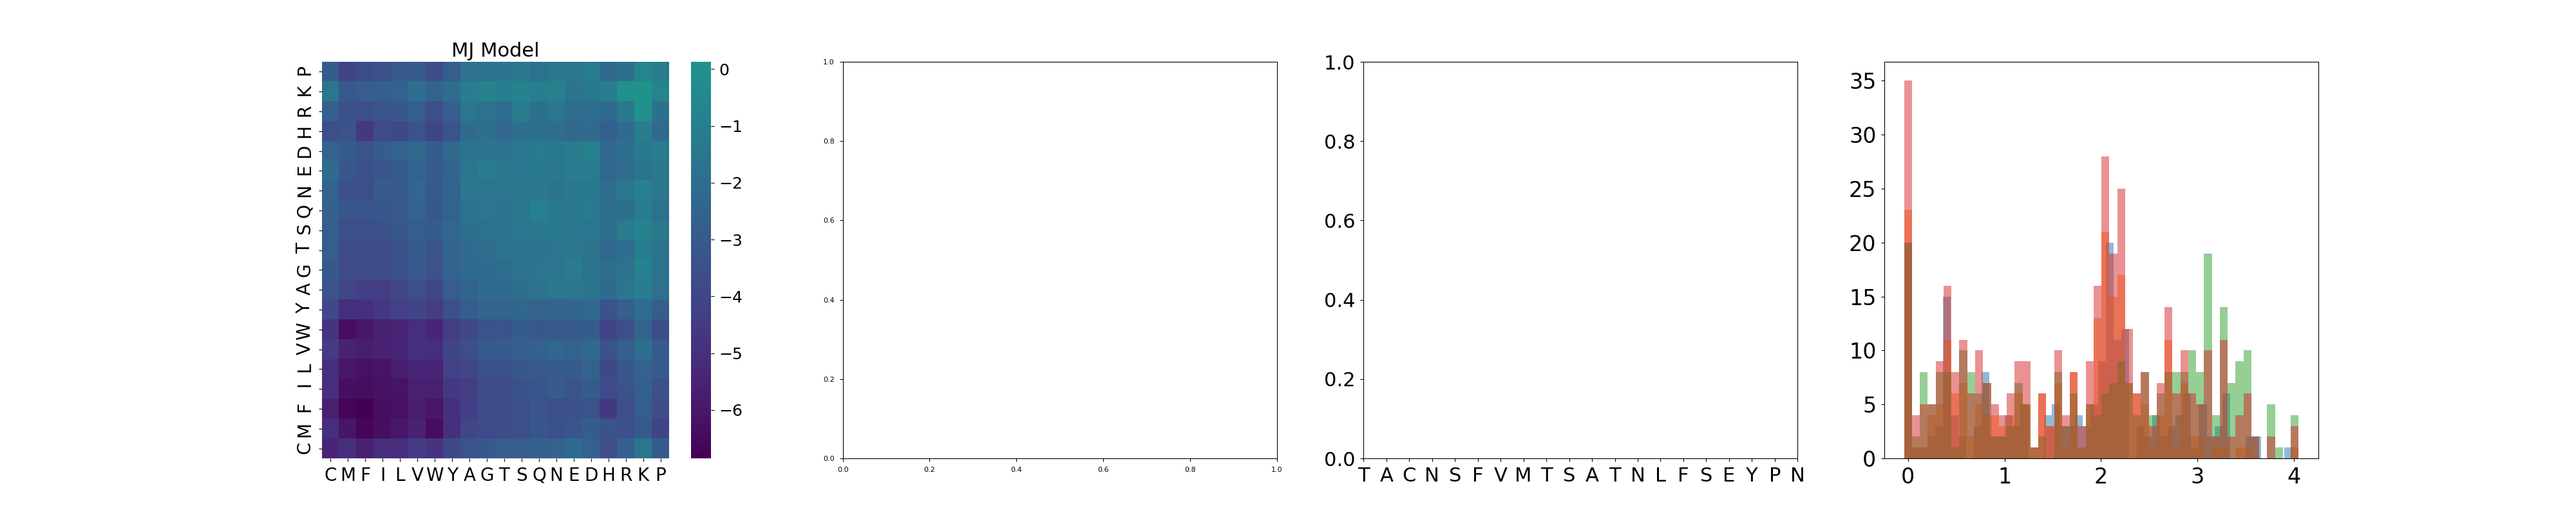
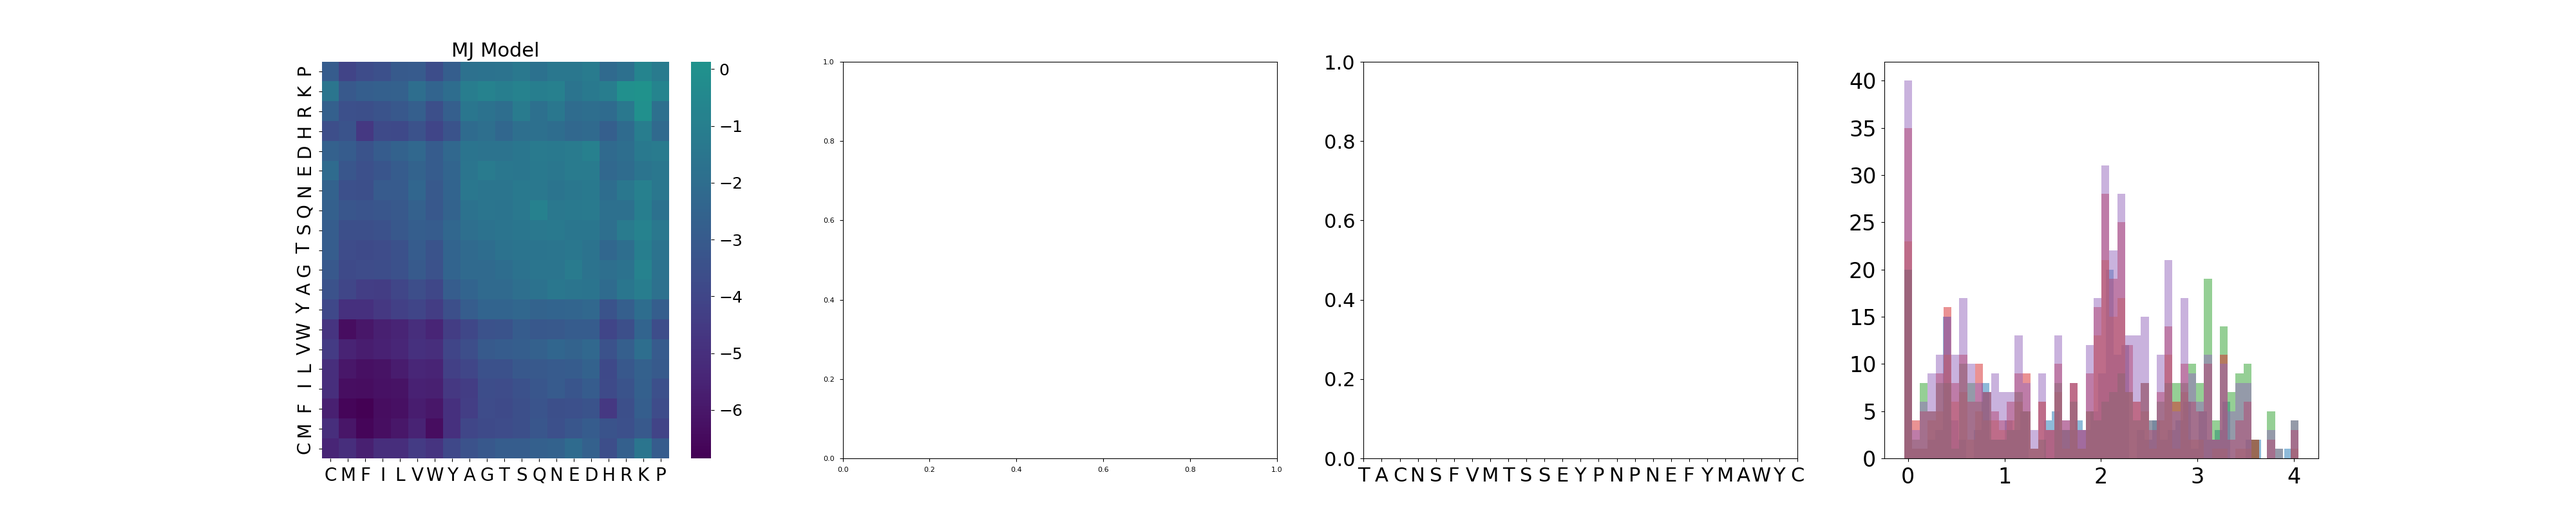
Making plot of \lambdas vs. complexity. Mac20

diff --git a/Codes/analysis/ensemble_lambda.py b/Codes/analysis/ensemble_lambda.py
@@ -47,13 +47,13 @@ if(Matrix == 'BLOSUM62'):
 L_alphabet = len(Alphabet)
 
 #-------------------------PWM----------------------------------
-fig, ax = plt.subplots(figsize=(10,8), gridspec_kw={'left':0.18})
+fig, ax = plt.subplots(figsize=(10,8), gridspec_kw={'left':0.18, 'right':.95, 'bottom':.15})
 
 #antigen_seq = np.random.randint(0, len(Alphabet), L)
 #antigen = Alphabet[antigen_seq]
 antigen = 'FMLFMAVFVMTSWYC'
-antigens = ['NTKTAATNLF', 'TACNSEYPNTTK', 'FMLFMAVFVMTSWYC', 'TACNSFVMTSATNLFSEYPN']
-colors_L = plt.cm.Paired(np.linspace(0,1,len(antigens)+1))
+antigens = ['NTKTAATNLF', 'TACNSEYPNTTK', 'FMLFMAVFVMTSWYC', 'TACNSFVMTSATNLFSEYPN', 'TACNSFVMTSSEYPNPNEFYMAWYC']
+colors_L = plt.cm.ocean(np.linspace(0,1,2*len(antigens)+4))
 
 for l, antigen in enumerate(antigens):
     L=len(antigen)
@@ -148,20 +148,20 @@ for l, antigen in enumerate(antigens):
         #avg_min_E = np.sum(es[:-1]*p_min_e*de)
         #lambd_gaussian = np.append(lambd_gaussian, (avg_E-avg_min_E+2.95)/var_E)
         Us_N = np.append(Us_N, Us[np.where(Ms>N)[0][-1]])
-        lambdas_N = np.append(lambdas_N, lambdas[np.where(Us<(Us_N[-1]+(2.5/15)*L))[0][-1]]) #+(2.95/15)*L
+        lambdas_N = np.append(lambdas_N, lambdas[np.where(Us<(Us_N[-1])+(2.5/15)*L)[0][-1]]) #+(2.5/15)*L
 
 
     #ax.plot(Ns_array, lambd_gaussian, label = 'Gaussian', linestyle = '--', linewidth= 4, color = 'darkolivegreen', alpha = .6)
     #ax.plot(Ns_array, lambdas_N, color = 'darkolivegreen', linewidth = 2, label = r'$\int_{\epsilon_{MS}}^{\epsilon_m}\Lambda(\epsilon)d\epsilon\sim\frac{1}{M} $', alpha = .6, linestyle = '--')
-    ax.plot(Ns_array, lambdas_N, color = colors_L[l], linewidth = 2, label = r'%d'%(L), alpha = .6, linestyle = '--')
+    ax.plot(Ns_array/(20**L), lambdas_N, color = colors_L[2*l+4], linewidth = 3, label = r'%d'%(L), alpha = .6, linestyle = '--')
 
 
     for n, N in enumerate(Ns):
-        ax.scatter(N, lambdas_simulation[n], color = colors_L[l], s = 50, marker = '.', alpha = 1)
-        ax.errorbar(x = N, y = lambdas_simulation[n], yerr = 1.96*2*(alpha*(lambdas_simulation[n])**2)/(beta)*np.sqrt(vars_rcs_exponent[n]), color = colors_L[l], linestyle = '', capsize = 4)
+        ax.scatter(N/(20**L), lambdas_simulation[n], color = colors_L[2*l+4], s = 50, marker = 's', alpha = 1)
+        ax.errorbar(x = N/(20**L), y = lambdas_simulation[n], yerr = 1.96*2*(alpha*(lambdas_simulation[n])**2)/(beta)*np.sqrt(vars_rcs_exponent[n]), color = colors_L[2*l+4], linestyle = '', capsize = 4)
 
-my_plot_layout(ax=ax, xscale = 'log', yscale = 'linear', ylabel = '$\lambda(N)$', xlabel = '$M$')
-ax.legend(fontsize=24, title = 'L')
+my_plot_layout(ax=ax, xscale = 'log', yscale = 'linear', ylabel = '$\lambda(N)$', xlabel = '$M/20^L$')
+ax.legend(fontsize=24, title = r'$L$', title_fontsize = 26)
 fig.savefig('../../Figures/5_Geometric_exponent/lambda_simulations_N_L.pdf')
 
 end = time.time()

diff --git a/Codes/library/Immuno_functions.hpp b/Codes/library/Immuno_functions.hpp
@@ -146,10 +146,11 @@ void choose_naive_Bcells(int N, int L, int L_alphabet, vector< vector<double> > 
     MS.resize(L);
     find_complementary(L, L_alphabet, MJ, Antigen, MS);
     double e_MS = Energy(L, L_alphabet, MJ, MS, Antigen, "MJ", r);
+    //cout << e_MS <<endl;
     double e;
     for(int n = 0 ; n<N ; n++){
         e = Energy(L, L_alphabet, MJ, Bcells[n].seq, Antigen, type, r);
-        if(e<e_MS+28){
+        if(e<e_MS+35){ //Modulate this parameter properly with \epsilon_m
             Bcells[n].e = e;
             Naive.push_back( &Bcells[n]);
             n_naive++;
@@ -277,7 +278,7 @@ void ODE_ensemble(int linear, double const alpha, double const beta, double cons
                 // This function, contrary to the one for the single dynamics, does not use the Time_series_Bcells array. It uses the variable cs of the Bcell Class.
                 //Time_series_Bcells[n][t] = Time_series_Bcells[n][t-1] + (beta*Time_series_Bcells[n][t-1])*dT*(Naive[n]->active); // this uses the time_series arrays
                 if(Naive[n]->active == 0){
-                    f = (Time_series_Antigen[t]/N_A)/((Time_series_Antigen[t]/N_A) + exp(30+Naive[n]->e));
+                    f = (Time_series_Antigen[t]/N_A)/((Time_series_Antigen[t]/N_A) + exp(45+Naive[n]->e)); //Modulate this parameter promerly with \epsilon_MS
                     if(f>0.5){
                         Naive[n]->active = 1;
                         n_active_linages_t++;
@@ -305,7 +306,7 @@ void ODE_ensemble(int linear, double const alpha, double const beta, double cons
                 // This function, contrary to the one for the single dynamics, does not use the Time_series_Bcells array. It uses the variable cs of the Bcell Class.
                 //Time_series_Bcells[n][t] = Time_series_Bcells[n][t-1] + (beta*Time_series_Bcells[n][t-1])*dT*(Naive[n]->active); // this uses the time_series arrays
                 if(Naive[n]->active == 0){
-                    f = (Time_series_Antigen[t]/N_A)/((Time_series_Antigen[t]/N_A) + exp(30+Naive[n]->e));
+                    f = (Time_series_Antigen[t]/N_A)/((Time_series_Antigen[t]/N_A) + exp(45+Naive[n]->e)); //Modulate this parameter promerly with \epsilon_MS
                     if(f>0.5){
                         Naive[n]->active = 1;
                         n_active_linages_t++;

diff --git a/Codes/analysis/ensemble_lambda_0.py b/Codes/analysis/ensemble_lambda_0.py
@@ -21,7 +21,8 @@ style.use('seaborn-paper')
 #antigen = 'FMLFMAVFVMTSWYC'
 antigen = 'TACNSEYPNTTK'
 #antigen = 'NTKTAATNLF'
-antigens = ['NTKTAATNLF', 'TACNSEYPNTTK', 'FMLFMAVFVMTSWYC', 'TACNSFVMTSATNLFSEYPN']
+antigens = ['NTKTAATNLF', 'TACNSEYPNTTK', 'FMLFMAVFVMTSWYC', 'TACNSFVMTSATNLFSEYPN', 'TACNSFVMTSSEYPNPNEFYMAWYC']
+antigens = ['TACNSFVMTSSEYPNPNEFYMAWYC']
 
 #-------------------------RELATIVE CLONE SIZE _ N----------------------------------
 for antigen in antigens:
@@ -53,7 +54,7 @@ for antigen in antigens:
         N_final_active = np.loadtxt(Text_files_path + "Dynamics/Ensemble/N_final_active_L-%d_N-%d_Antigen-"%(L, N)+antigen+"_alpha-%.6f_beta-%.6f_gamma-%.6f_Linear-%d_"%(alpha, beta, gamma, linear)+energy_model+".txt")
         N_final_active = np.concatenate(([0], N_final_active))
         N_final_active_cum = np.cumsum(N_final_active)
-        N_clones = 10
+        N_clones = 10 #Maybe reduce this so that the exponent is closer to \epsilon_m
         Clone_relative_sizes = np.zeros(N_clones)
         N_ens = 0
         for j, N_final in enumerate(N_final_active_cum[:-1]):
